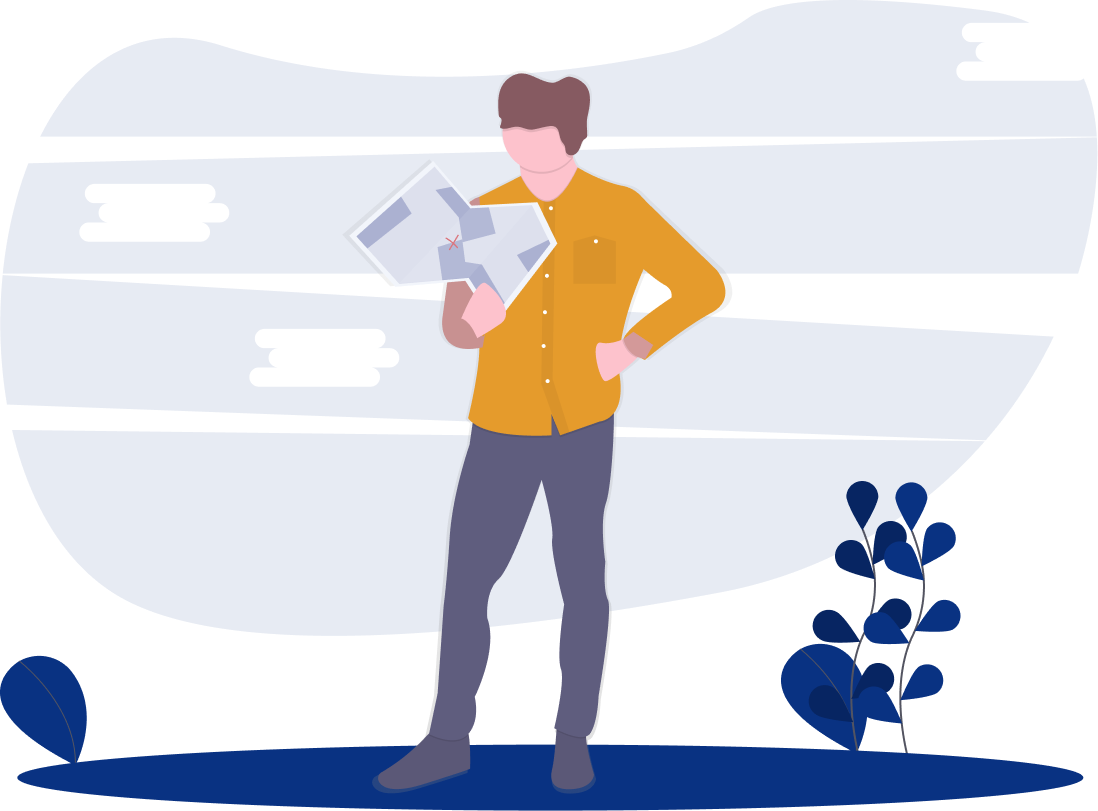
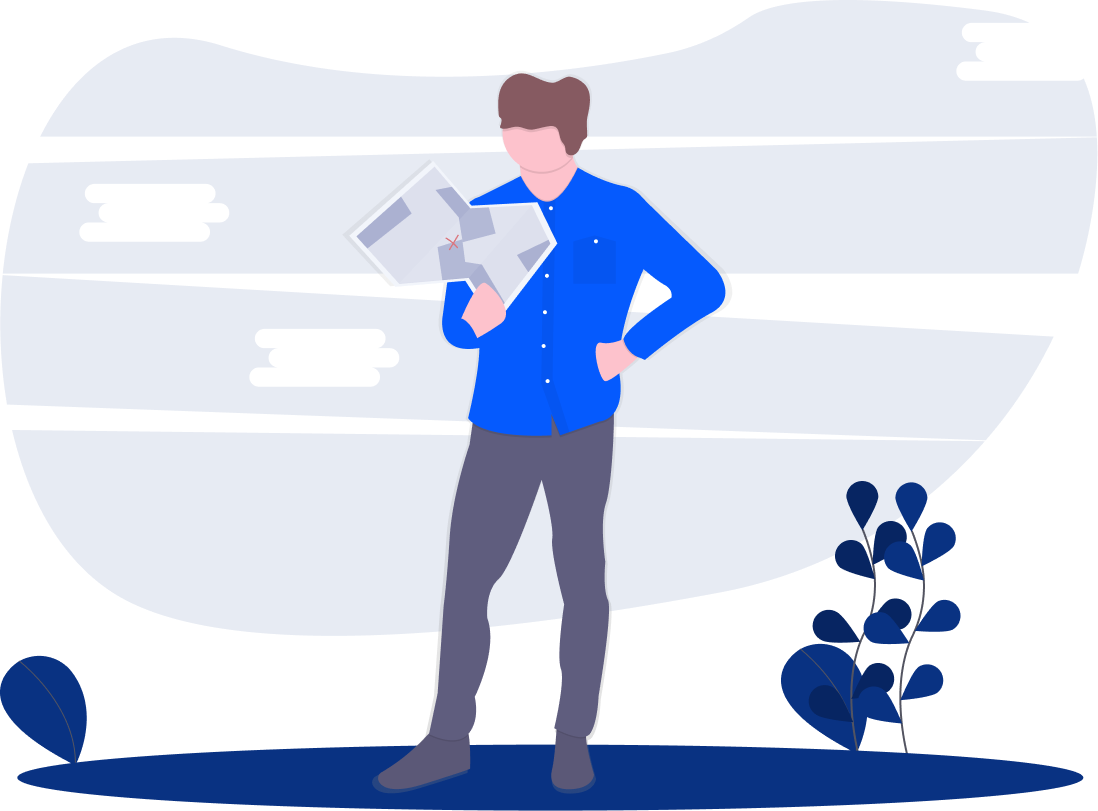
I edited the not found page on mobile

Changed region(s): [[0.4026, 0.2158, 0.6812, 0.5549]]

diff --git a/src/app/pages/errors/not-found/not-found.component.scss b/src/app/pages/errors/not-found/not-found.component.scss
@@ -42,6 +42,11 @@ $tuleWhite: #fefefedc;
   padding-top: 2rem;  
 }
 
+.not-found-container {
+  margin: auto;
+  padding: 2rem;
+}
+
 /* TEXTS */
 
 span {
@@ -50,48 +55,42 @@ span {
 
 .title-page,
 .help-message {
-  padding: 2rem;
-}
-
-.title-page {
-  font-size: 3.2rem;
-  font-weight: 700;
-  color: $superDarkBlue;
+  padding: 1rem;
+  font-size: 2.4rem;
 
   @include for-phone-only {
-    font-size: 2.4rem;
+    font-size: 1.8rem;
   }
 }
 
+.title-page {
+  font-weight: 700;
+  color: $superDarkBlue;
+}
 
 .error-number {
   font-size: 12rem;
   font-weight: 700;
-  color: #E59B2C;
+  color: $blue;
 
   @include for-phone-only {
-    font-size: 10rem;
+    font-size: 8rem;
   }
 }
 
 .help-message {
-  font-size: 2.4rem;
   font-weight: 700;
   color: $superDarkBlue;
-
-  @include for-phone-only {
-    font-size: 1.6rem;
-  }
 }
 
 .back-to-homepage {
   font-size: 2.4rem;
   font-weight: 700;
-  color: #E59B2C;
+  color: $blue;
   cursor: pointer;
 
   @include for-phone-only {
-    font-size: 1.6rem;
+    font-size: 1.8rem;
   }
 }
 
@@ -102,7 +101,7 @@ span {
   margin:  0 auto 0 auto;
 
   @include for-phone-only {
-    width: 32rem;
+    width: 28rem;
     margin: auto;
   }
 }

diff --git a/src/app/pages/errors/not-found/not-found.component.html b/src/app/pages/errors/not-found/not-found.component.html
@@ -1,6 +1,8 @@
 <div class="container">
-  <h1 class="title-page">Infelizmente, a página que você está procurando não existe..</h1>
-  <h2 class="error-number">404</h2>
-  <img class="error-image" src="../../../../assets/images/lost.png" alt="car">
-  <p class="help-message">...Mas vamos te ajudar ok? <span routerLink="/home" (click)="changeTitle()" class="back-to-homepage">Volte para a página inicial.</span></p>
+  <div class="not-found-container">
+    <h1 class="title-page">Infelizmente, a página que você está procurando não existe..</h1>
+    <h2 class="error-number">404</h2>
+    <img class="error-image" src="../../../../assets/images/lost.png" alt="car">
+    <p class="help-message">...Mas vamos te ajudar ok? <span routerLink="/home" (click)="changeTitle()" class="back-to-homepage">Volte para a página inicial.</span></p>
+  </div>
 </div>
